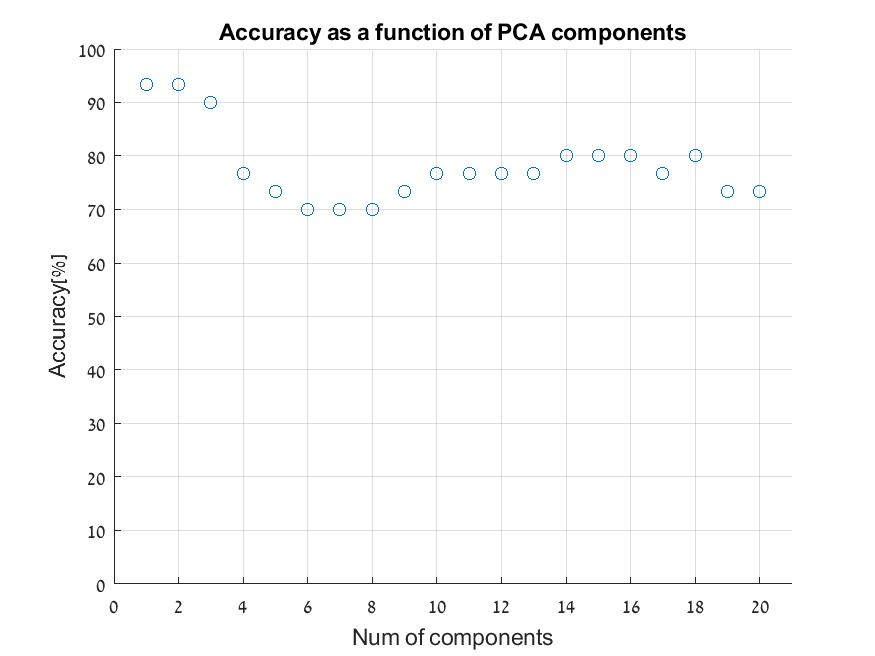
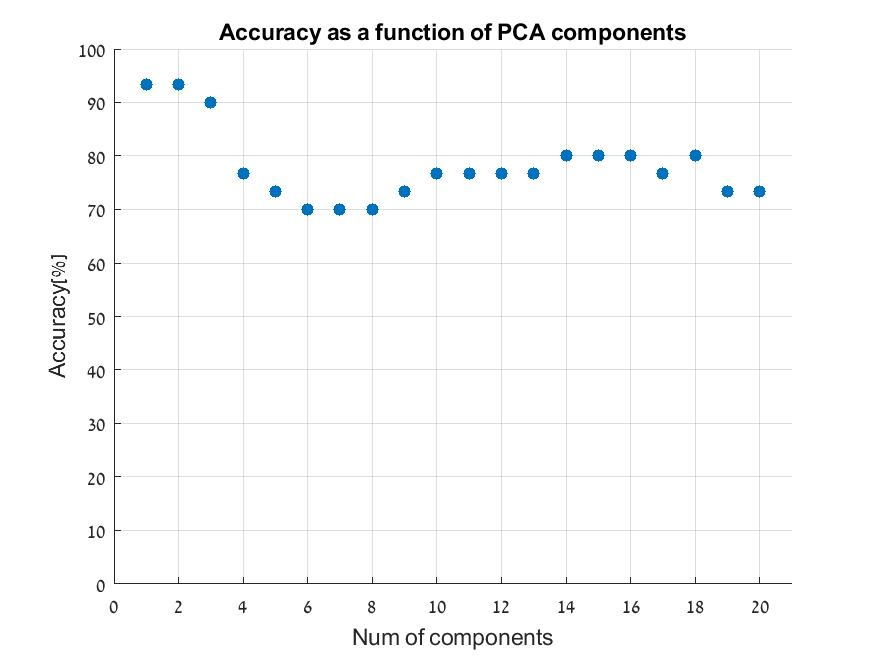
Add files via upload

diff --git a/Present_accurcy_graph.m b/Present_accurcy_graph.m
@@ -25,6 +25,16 @@ session_labels = "Session number";
 plot_accuracy_graph(results_neurons.results,chance_level,stat_demand,5,2,neurons_asterik_diff,present_error_jumps_neurons,neurons_labels)
 plot_accuracy_graph(results_ssesion.results,chance_level,stat_demand,1,0.1,session_asterik_diff,present_ssesion_std_jump,session_labels)
 
+figure();
+results_pca = load("accuracy_per_PCA_components_taken.mat");
+scatter(1:20,100*results_pca.accuracy_per__pca_components_taken(:,1)',"filled")
+xlabel("Num of components")
+ylabel("Accuracy[%]")
+title("Accuracy as a function of PCA components")
+grid on;
+axis([0,21,0,100]);
+saveas(gcf,"Accurcy as function of " + "PCA components" + ".jpg");
+
 function plot_accuracy_graph(results,chance_level,stat_demand,start_std,dash_length,asterik_diff,present_error_jumps,label)
     accuracy = results(:,:,1);
     samples_per_condition = size(results,2) - 1;
